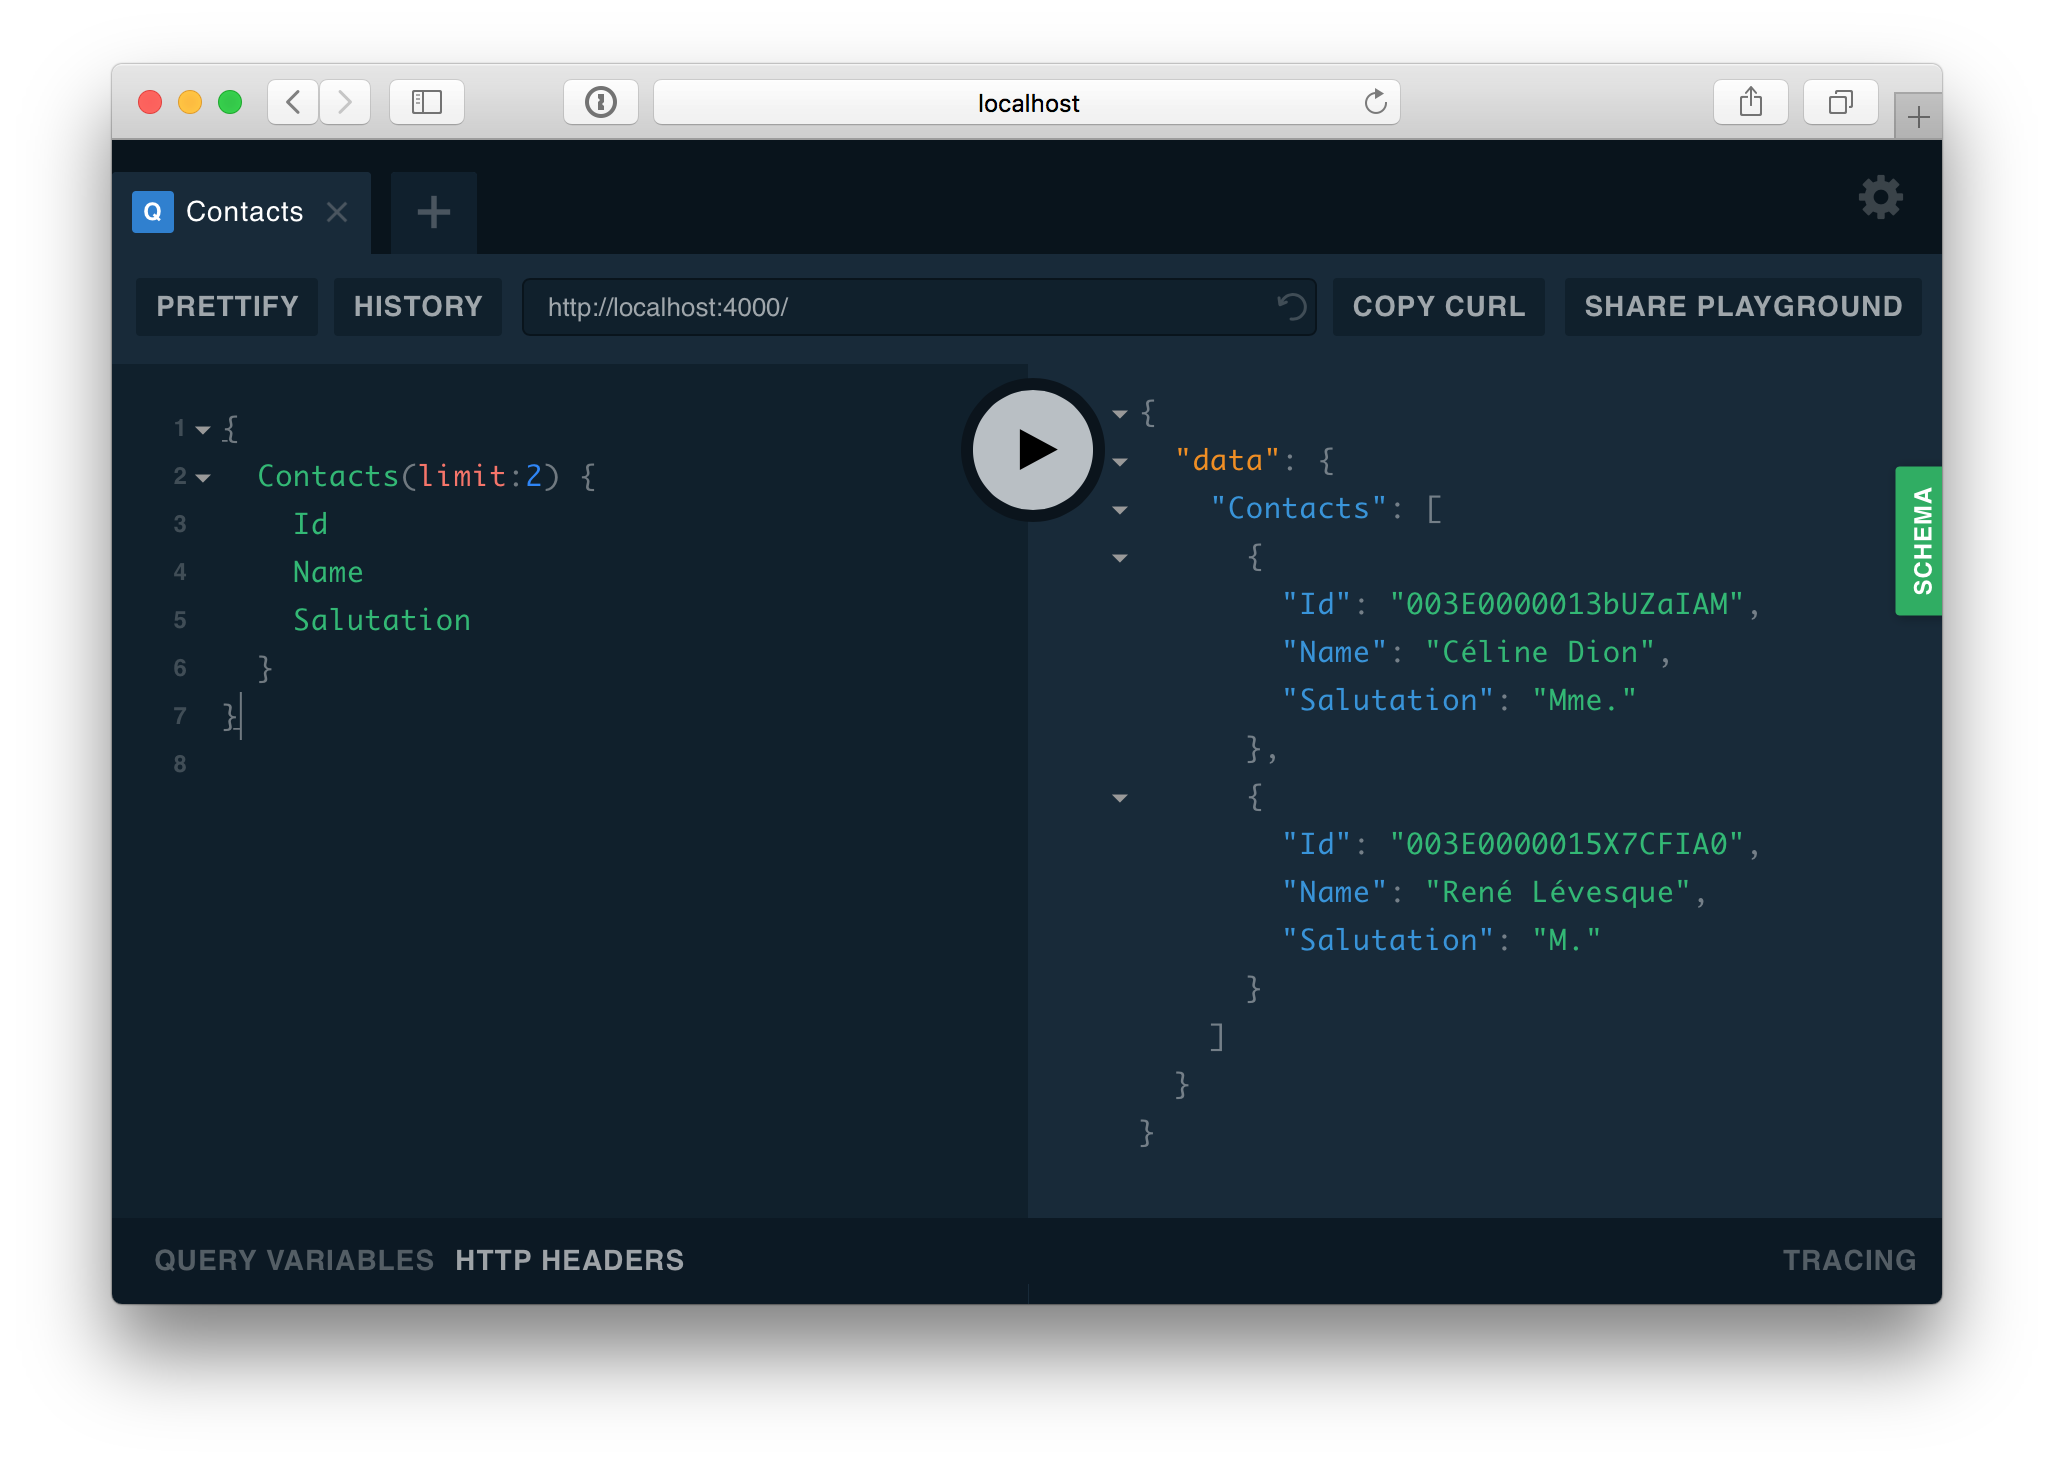
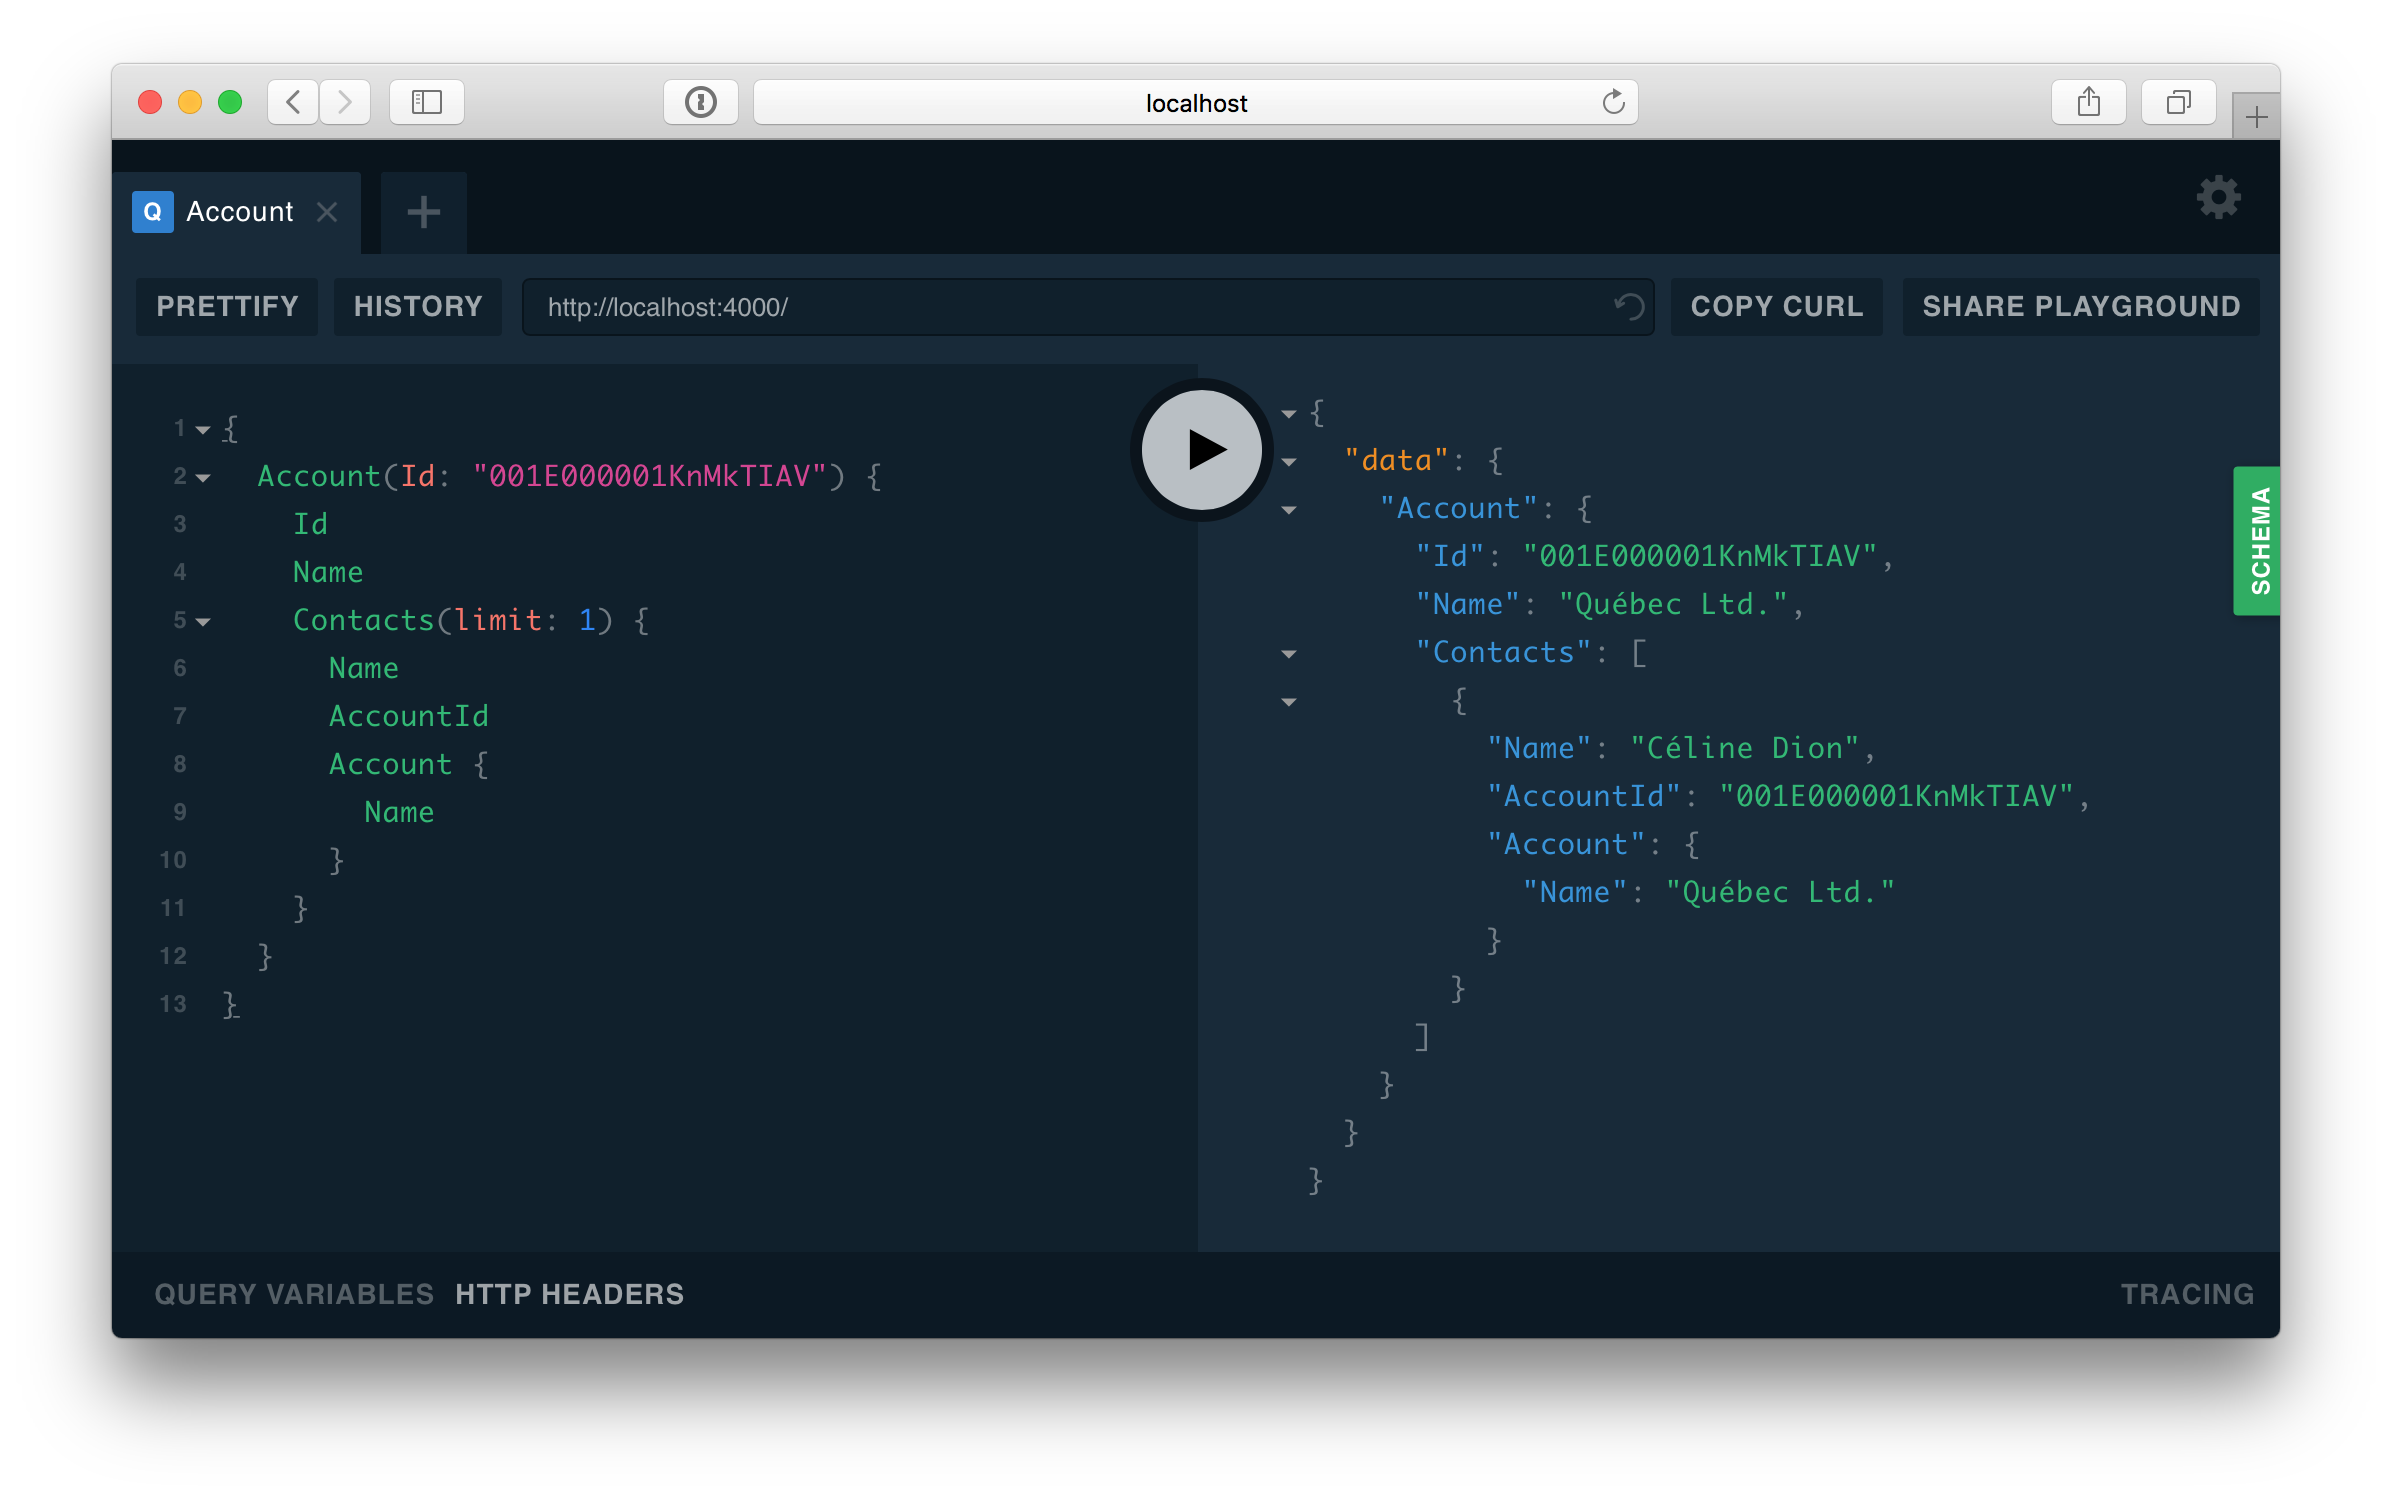
Refactor + Travis CI + Coveralls + Tests

Changed region(s): [[0.0312, 0.0307, 0.9659, 0.8914], [0.4674, 0.2459, 0.8724, 0.6455], [0.0935, 0.2766, 0.3427, 0.5533]]

diff --git a/src/index.ts b/src/index.ts
@@ -1,43 +1,53 @@
 import Q from './q';
 
 function getFields(info) {
-  const fields = [];
-  info.fieldNodes[0].selectionSet.selections.map((value, key) => {
-    if (!value.selectionSet) fields.push(value.name.value);
+  const fields: string[] = [];
+  info.fieldNodes.map(fieldNode => {
+    if (fieldNode.selectionSet) {
+      fieldNode.selectionSet.selections.map(value => {
+        if (!value.selectionSet) fields.push(value.name.value);
+      });
+    }
   });
   return fields;
 }
 
-function getWheres(info: any): any[] {
-  const wheres = [];
-  info.fieldNodes[0].arguments.map((val, key) => {
-    const field = val.name.value;
-    const value = val.value.value;
-    if (field !== 'limit') {
-      wheres.push({ field, value, operator: '=' });
-    }
+function getWheres(info): any[] {
+  const wheres: { field: string; value: string; operator: string }[] = [];
+  info.fieldNodes.map(fieldNode => {
+    fieldNode.arguments.map(val => {
+      const field = val.name.value;
+      const value = val.value.value;
+      if (field !== 'limit') {
+        wheres.push({ field, value, operator: '=' });
+      }
+    });
   });
   return wheres;
 }
 
-function getLimit(info: any): number | void {
+function getLimit(info): number | void {
   let limit;
-  info.fieldNodes[0].arguments.map((value, key) => {
-    if (value.name.value === 'limit') {
-      limit = value.value.value;
-    }
+  info.fieldNodes.map(fieldNode => {
+    fieldNode.arguments.map(value => {
+      if (value.name.value === 'limit') {
+        limit = value.value.value;
+      }
+    });
   });
   return limit;
 }
 
-export class Salesforce {
-  public conn;
+class Salesforce {
+  conn: any;
 
   constructor(props) {
+    console.log('CONSTRUCTOR')
     this.conn = props.conn;
   }
 
-  query = (parent, info) => {
+  public query = (parent: { key: string }, info) => {
+    console.log('BEFORE')
     const queryBuilder = new Q(info.returnType.ofType || info.returnType).select(getFields(info));
     const limit = getLimit(info);
 
@@ -54,3 +64,5 @@ export class Salesforce {
     return this.conn.query(query);
   };
 }
+
+export { Salesforce };

diff --git a/src/__tests__/q.spec.ts b/src/__tests__/q.spec.ts
@@ -1,0 +1,23 @@
+import Q from '../q';
+
+describe('Query generator', () => {
+  it('should generate simple query', () => {
+    const query = new Q('Account').build();
+    expect(query).toBe(`SELECT Id FROM Account`);
+  });
+
+  it('should add fields', () => {
+    const query = new Q('Account').select(['Id', 'Name', 'BillingCountry']).build();
+    expect(query).toBe(`SELECT Id, Name, BillingCountry FROM Account`);
+  });
+
+  it('should add limit', () => {
+    const query = new Q('Account').limit(10).build();
+    expect(query).toBe(`SELECT Id FROM Account LIMIT 10`);
+  });
+
+  it('should add where condition', () => {
+    const query = new Q('Account').where('Id', '=', '001E000001KnMkTIAV').build();
+    expect(query).toBe(`SELECT Id FROM Account WHERE Id = '001E000001KnMkTIAV'`);
+  });
+});

diff --git a/src/q.ts b/src/q.ts
@@ -1,9 +1,9 @@
 export default class Q {
   fromText: string;
   fieldList: string[];
-  numberOfRows: number;
+  numberOfRows: number | undefined;
   conditions: { field: string; operator: string; value: string }[];
-  numberOfRowsToSkip: number;
+  numberOfRowsToSkip: number | undefined;
 
   constructor(sobject: string) {
     this.fromText = sobject;
@@ -48,7 +48,7 @@ export default class Q {
     if (this.conditions.length !== 0) {
       return 'WHERE ' + condList.join(' AND ');
     } else {
-      return null;
+      return '';
     }
   };
 

diff --git a/README.md b/README.md
@@ -1,7 +1,7 @@
 <p align="center">
   <img src="./assets/title.png" alt="salesforce graphql" width="326">
   <br>
-  <a href="https://travis-ci.org/jpmonette/salesforce-graphql"><img src="https://travis-ci.org/jpmonette/salesforce-graphql.svg?branch=master" alt="Build Status"></a>
+  <a href="https://travis-ci.org/jpmonette/salesforce-graphql"><img src="https://travis-ci.org/jpmonette/salesforce-graphql.svg?branch=master" alt="Build Status"></a> <a href='https://coveralls.io/github/jpmonette/salesforce-graphql?branch=master'><img src='https://coveralls.io/repos/github/jpmonette/salesforce-graphql/badge.svg?branch=master' alt='Coverage Status' /></a>
 </p>
 
 <p align="center"><code>salesforce-graphql</code> - Bringing the <strong>GraphQL</strong> query language to <strong>Salesforce</strong></p>
@@ -42,6 +42,14 @@ const resolvers = {
     Contact: (parentobj, args, context, info) =>
       context.db.query({}, info).then(res => res.records[0]),
   },
+  Account: {
+    Contacts: (parent, args, context, info) =>
+      context.db.query({ AccountId: parent.Id }, info).then(res => res.records),
+  },
+  Contact: {
+    Account: (parent, args, context, info) =>
+      context.db.query({ Id: parent.AccountId }, info).then(res => res.records[0]),
+  },
 };
 
 const conn = new jsforce.Connection({});
@@ -78,10 +86,13 @@ type Account {
   IsDeleted: Boolean
   Name: String
   Type: String
+
+  Contacts(limit: Int): [Contact]
 }
 
 type Contact {
   Id: ID!
+  Account: Account
   AccountId: String
   LastName: String
   FirstName: String
@@ -100,10 +111,16 @@ Head over to `http://localhost:4000/playground` to test with the following query
 
 ```graphql
 {
-  Contacts(limit: 2) {
+  Account(Id: "001E000001KnMkTIAV") {
     Id
     Name
-    Salutation
+    Contacts(limit: 1) {
+      Name
+      AccountId
+      Account {
+        Name
+      }
+    }
   }
 }
 ```
@@ -121,3 +138,7 @@ Head over to `http://localhost:4000/playground` to test with the following query
 - [`salesforce-graphql` on NPM](https://www.npmjs.com/package/salesforce-graphql)
 - Learn more about [GraphQL](http://graphql.org/)
 - [Salesforce REST API](https://developer.salesforce.com/docs/atlas.en-us.api_rest.meta/api_rest/intro_what_is_rest_api.htm) documentation
+
+## Extra
+
+- Looking for [new opportunities](https://mavens.com/careers/)? Have a look at [Mavens](https://mavens.com/) website!
